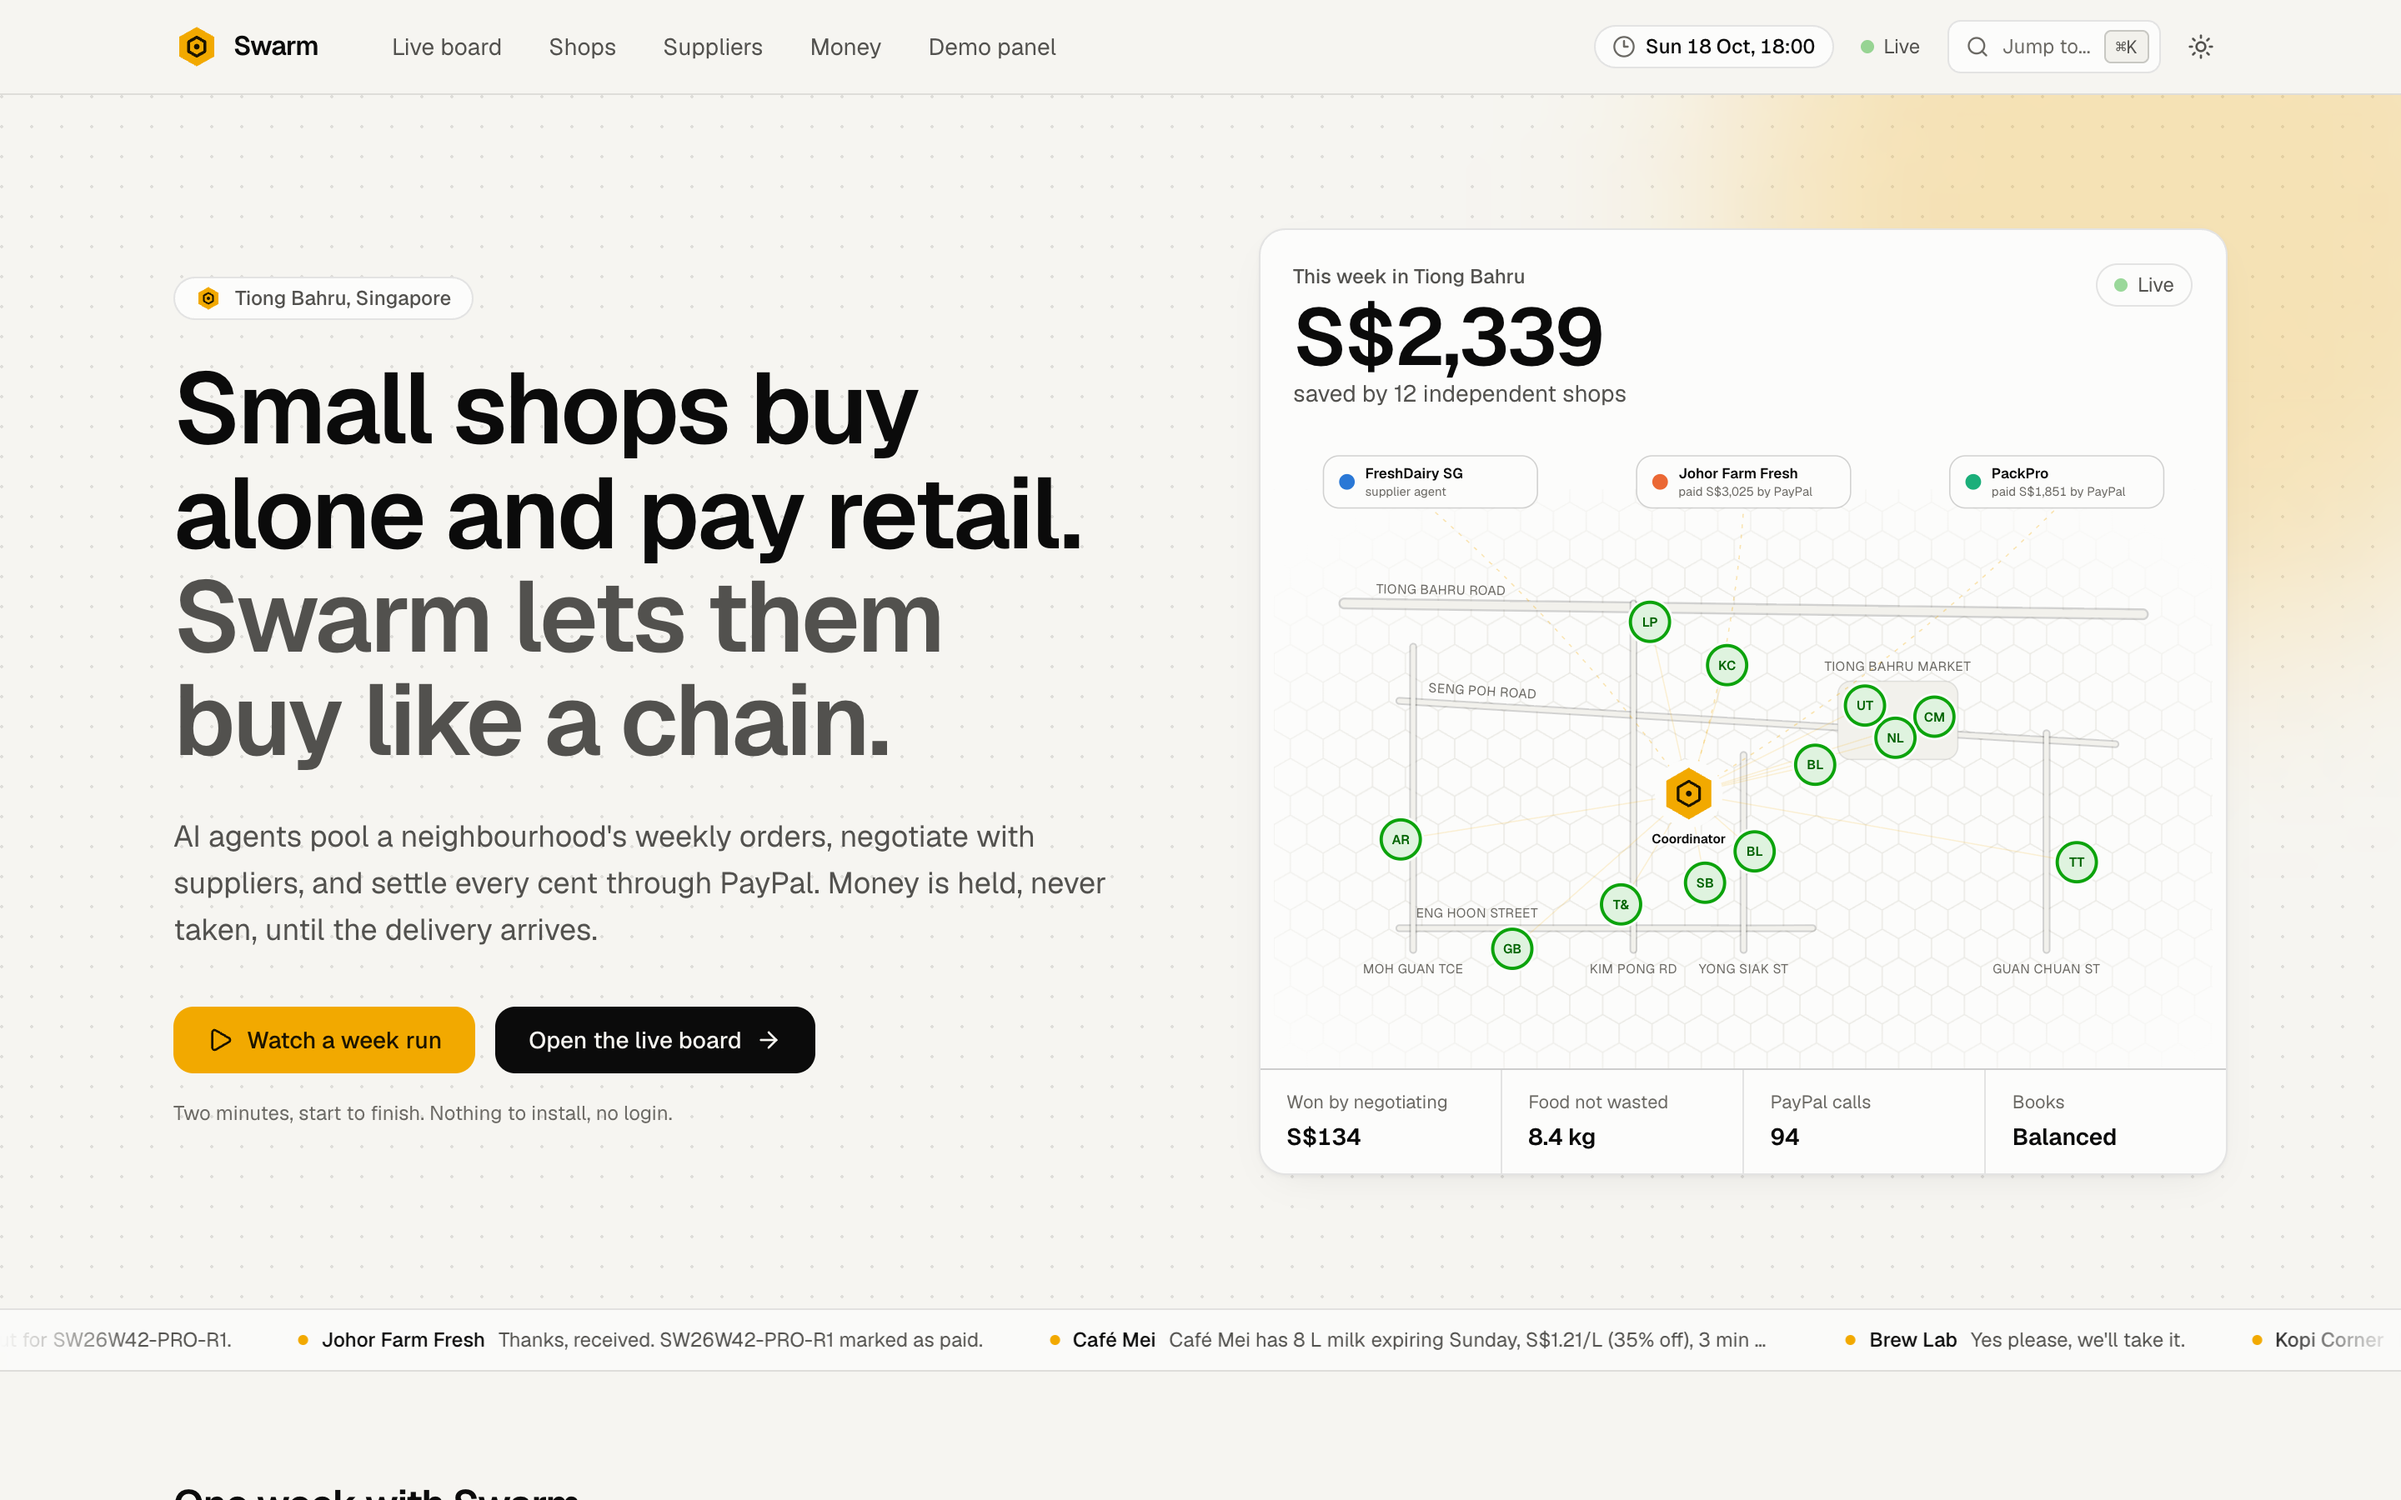
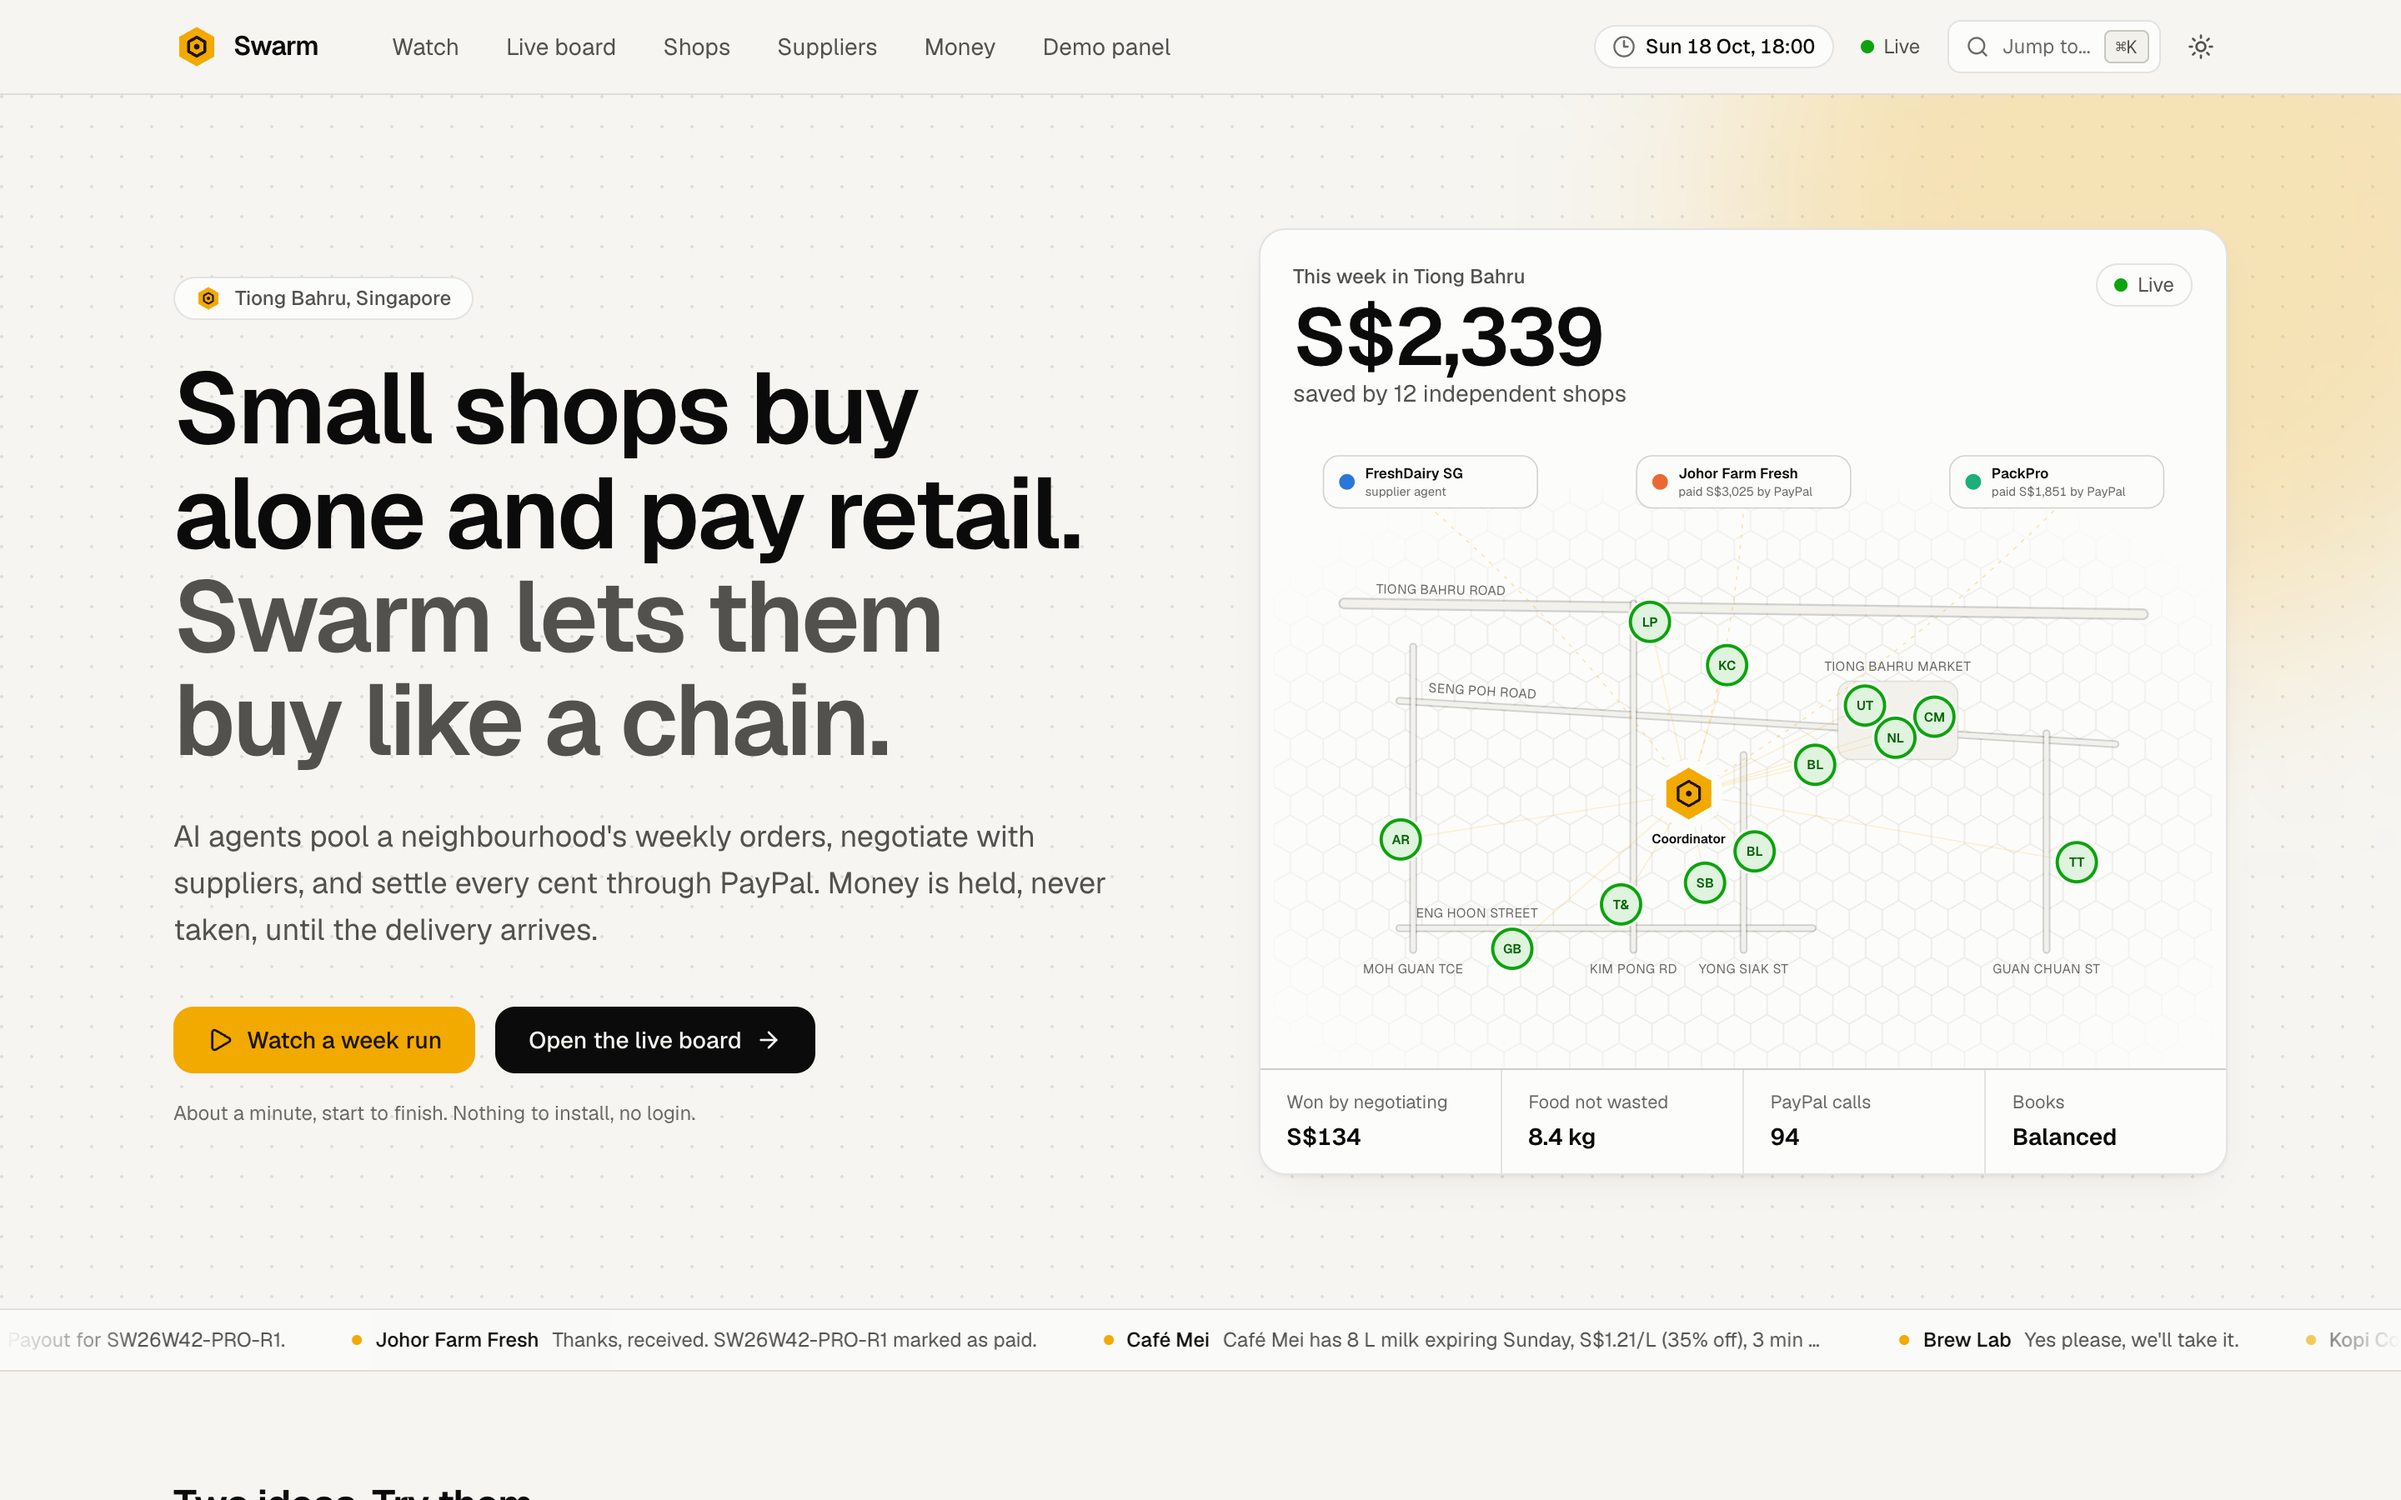
docs: README opens with the watch page recording; new screenshots

diff --git a/frontend/components/theatre-parts.tsx b/frontend/components/theatre-parts.tsx
@@ -503,7 +503,8 @@ export function Chatter({
     .slice(-5);
   return (
     <section
-      className="border-line bg-surface flex min-h-0 flex-1 flex-col rounded-2xl border p-4"
+      // On a short window there is no room for it under the tally and the money.
+      className="border-line bg-surface hidden min-h-0 flex-1 flex-col rounded-2xl border p-4 [@media(min-height:840px)]:flex"
       aria-label="What the agents are saying"
     >
       <h2 className="text-ink text-sm font-semibold">What the agents are saying</h2>

diff --git a/README.md b/README.md
@@ -15,7 +15,7 @@ The demo world is 12 fictional shops and 3 suppliers in Tiong Bahru, Singapore, 
 page. The whole week plays back in about a minute. It is a replay of the recorded week, so
 nothing is reset and any number of people can watch at once.
 
-![One Swarm week on the live board: agents negotiate, PayPal holds, charges and pays out](docs/screenshots/week.gif)
+![One Swarm week on the watch page: agents negotiate, PayPal holds, charges and pays out, ending on the week's summary](docs/screenshots/watch.gif)
 
 _One week, start to finish. Thin streaks on the map are agent messages; thick glowing
 streaks are money moving through PayPal (honey = held, green = charged, dark = paid out)._
@@ -71,15 +71,19 @@ food out of the bin. It takes 94 PayPal calls, and the books balance to the cent
 | F5 | Emergency borrow | "Out of eggs, need 30 now" is matched to a nearby shop in under two minutes. |
 | F6–F9 | Supporting | Demand forecasts, weekly savings report, supplier flash deals, spending limits. |
 
-| Live board, mid-week | Where the money went |
+| Watch page, Thursday | Watch page, the week's summary |
 |---|---|
+| ![Watch page during settlement](docs/screenshots/watch.png) | ![The week in review](docs/screenshots/watch-finale.png) |
+| **Live board, mid-week** | **Where the money went** |
 | ![Live board during settlement](docs/screenshots/live-board-running.png) | ![Money flow](docs/screenshots/money-flow.png) |
 | **Live board, week complete** | **Demo panel and the owner's phone** |
 | ![Live board](docs/screenshots/live-board-full.png) | ![Demo panel](docs/screenshots/demo-panel.png) |
 | **Shop page** | **Invoice check (supplier page)** |
 | ![Shop page](docs/screenshots/shop.png) | ![Invoices](docs/screenshots/supplier-invoices.png) |
-| **Home** | **Dark mode, phone** |
-| ![Home](docs/screenshots/landing.png) | ![Dark](docs/screenshots/live-board-dark.png) ![Phone](docs/screenshots/mobile-live.png) |
+| **Home** | **Home: two things to try** |
+| ![Home](docs/screenshots/landing.png) | ![Pooling and short-delivery examples](docs/screenshots/explainers.png) |
+| **Dark mode** | **Phone** |
+| ![Dark](docs/screenshots/live-board-dark.png) | ![Phone](docs/screenshots/mobile-live.png) |
 
 _The submission video goes here._
 

diff --git a/PROGRESS.md b/PROGRESS.md
@@ -669,3 +669,6 @@ resetting it for everyone. Now every run is recorded and anyone can play it back
 - The page computes nothing. `GET /api/explain` (`app/features/explain.py`) builds both
   tables with `app.money.pricing`, the functions the week itself runs on, from the street's
   usual milk order. Tests check every row against those functions.
+- The README now opens with a recording of the watch page (`docs/screenshots/watch.gif`,
+  4.3 MB) in place of the older live-board recording, with new watch-page and home-page
+  screenshots.
